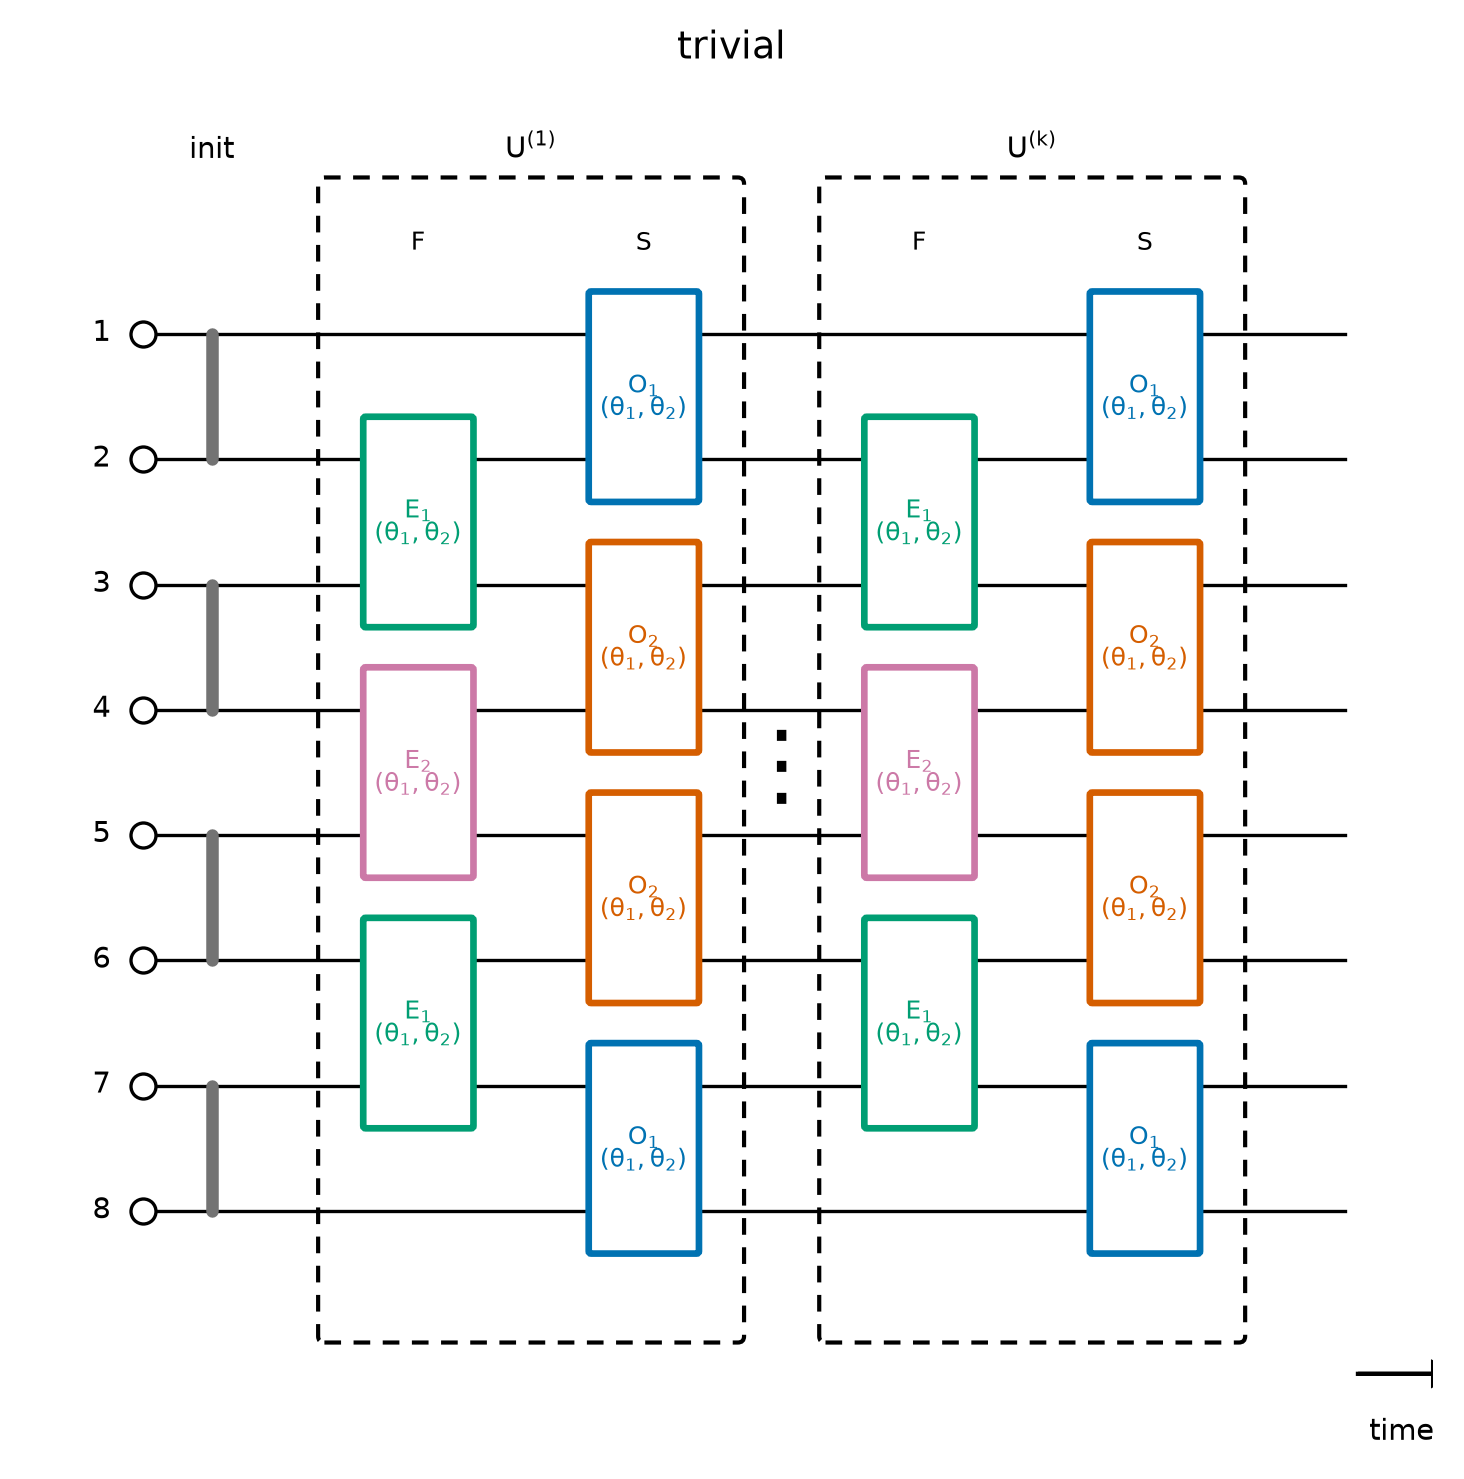
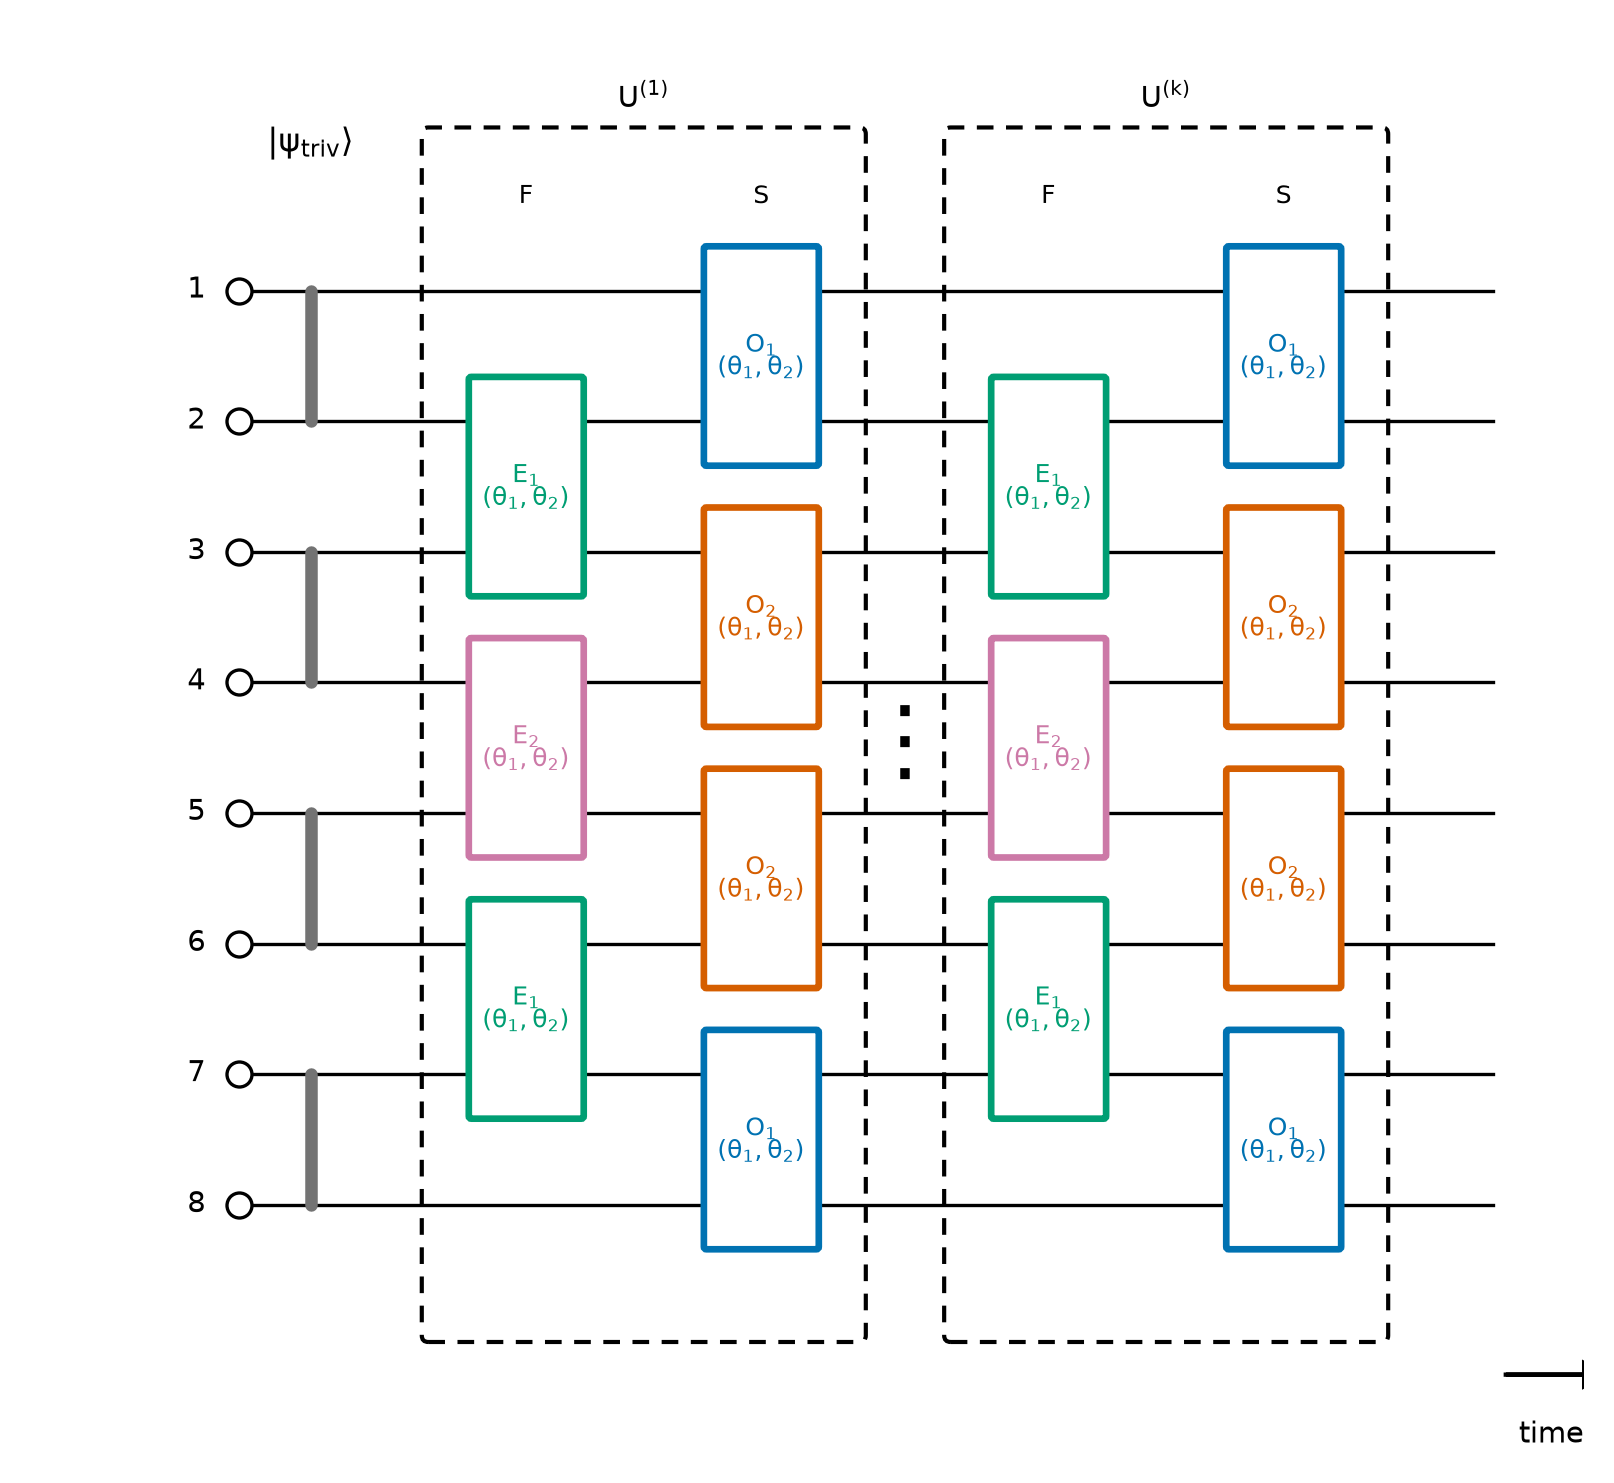
D06a-c三轮: 去标题句ket标记, topo弓弧/AFM锯齿链区分初态

diff --git a/scripts/plot_D06.py b/scripts/plot_D06.py
@@ -26,6 +26,8 @@ import matplotlib
 matplotlib.use("Agg")
 import matplotlib.pyplot as plt
 from matplotlib.patches import FancyBboxPatch
+from matplotlib.path import Path
+import matplotlib.patches as mpatches
 
 HERE = os.path.dirname(os.path.abspath(__file__))
 sys.path.insert(0, HERE)
@@ -86,12 +88,11 @@ def draw_sublayer(ax, bonds, x, colors, tag):
     ax.text(x, 7.62, tag, ha="center", va="bottom", fontsize=6)
 
 
-def finish(ax, title):
-    ax.set_xlim(-0.9, 10.3)
+def finish(ax):
+    ax.set_xlim(-1.6, 10.3)
     ax.set_ylim(-1.9, 9.0)
     ax.set_aspect("equal")
     ax.axis("off")
-    ax.set_title(title, fontsize=9)
 
 
 # Orbit-pair labels: same label + color = one shared (theta1, theta2).
@@ -118,7 +119,8 @@ def main():
     draw_wires(ax)
     for a, b in [(1, 2), (3, 4), (5, 6), (7, 8)]:
         link_bar(ax, a, b, X_INIT)
-    ax.text(X_INIT, 8.35, "init", ha="center", va="bottom", fontsize=7)
+    ax.text(X_INIT, 8.0, r"$|\psi_{\rm triv}\rangle$", ha="center",
+            va="bottom", fontsize=8)
     draw_sublayer(ax, EVEN_BONDS, X_F1, cE, r"$F$")
     draw_sublayer(ax, ODD_BONDS, X_S1, cO, r"$S$")
     layer_frame(ax, X_F1 - 0.75, X_S1 + 0.75)
@@ -131,7 +133,7 @@ def main():
     layer_frame(ax, X_FK - 0.75, X_SK + 0.75)
     ax.text((X_FK + X_SK) / 2, 8.35, r"$U^{(k)}$", ha="center",
             va="bottom", fontsize=7)
-    finish(ax, "trivial")
+    finish(ax)
     fig.tight_layout()
     finalize_figure(fig, os.path.join(FIGDIR, "exp04_D06a.pdf"))
     finalize_figure(fig, os.path.join(FIGDIR, "exp04_D06a.png"))
@@ -143,9 +145,12 @@ def main():
     draw_wires(ax)
     for a, b in [(2, 3), (4, 5), (6, 7)]:
         link_bar(ax, a, b, X_INIT)
-    ax.plot([X_INIT, X_INIT], [y_of(8), y_of(1)], color=GRAY, linewidth=3.0,
-            solid_capstyle="round")
-    ax.text(X_INIT, 8.35, "init", ha="center", va="bottom", fontsize=7)
+    verts = [(X_INIT, y_of(8)), (-1.3, 3.5), (X_INIT, y_of(1))]
+    ax.add_patch(mpatches.PathPatch(
+        Path(verts, [Path.MOVETO, Path.CURVE3, Path.CURVE3]),
+        facecolor="none", edgecolor=GRAY, linewidth=3.0, capstyle="round"))
+    ax.text(X_INIT, 8.0, r"$|\psi_{\rm topo}\rangle$", ha="center",
+            va="bottom", fontsize=8)
     draw_sublayer(ax, ODD_BONDS, X_F1, cO, r"$F$")
     draw_sublayer(ax, EVEN_BONDS, X_S1, cE, r"$S$")
     layer_frame(ax, X_F1 - 0.75, X_S1 + 0.75)
@@ -158,7 +163,7 @@ def main():
     layer_frame(ax, X_FK - 0.75, X_SK + 0.75)
     ax.text((X_FK + X_SK) / 2, 8.35, r"$U^{(k)}$", ha="center",
             va="bottom", fontsize=7)
-    finish(ax, "topo")
+    finish(ax)
     fig.tight_layout()
     finalize_figure(fig, os.path.join(FIGDIR, "exp04_D06b.pdf"))
     finalize_figure(fig, os.path.join(FIGDIR, "exp04_D06b.png"))
@@ -170,8 +175,9 @@ def main():
     fig, ax = plt.subplots(figsize=(9.5, 5.0))
     draw_wires(ax)
     for a in range(1, N):
-        link_bar(ax, a, a + 1, X_INIT)
-    ax.text(X_INIT, 8.35, "init", ha="center", va="bottom", fontsize=7)
+        link_bar(ax, a, a + 1, X_INIT + (0.16 if a % 2 else -0.16))
+    ax.text(X_INIT, 8.0, r"$|\psi_{\rm AFM}\rangle$", ha="center",
+            va="bottom", fontsize=8)
     draw_sublayer(ax, EVEN_BONDS, X_F1, cE, r"$F$")
     draw_sublayer(ax, ODD_BONDS, X_S1, cO, r"$S$")
     layer_frame(ax, X_F1 - 0.75, X_S1 + 0.75)
@@ -184,7 +190,7 @@ def main():
     layer_frame(ax, X_FK - 0.75, X_SK + 0.75)
     ax.text((X_FK + X_SK) / 2, 8.35, r"$U^{(k)}$", ha="center",
             va="bottom", fontsize=7)
-    finish(ax, "AFM")
+    finish(ax)
     fig.tight_layout()
     finalize_figure(fig, os.path.join(FIGDIR, "exp04_D06c.pdf"))
     finalize_figure(fig, os.path.join(FIGDIR, "exp04_D06c.png"))
